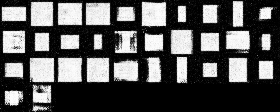
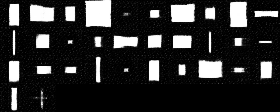
enabled batch training

diff --git a/InfoGAN-tf/run_infogan.py b/InfoGAN-tf/run_infogan.py
@@ -28,8 +28,11 @@ FLAGS = flags.FLAGS
 # Set up the input.
 rectangles = np.array(pickle.load(open(FLAGS.training_file, 'rb')), dtype=np.float32)
 print(rectangles.shape)
-images = rectangles[:FLAGS.batch_size].reshape((-1, 28, 28, 1))
-print(images.shape)
+images = rectangles.reshape((-1, 28, 28, 1))
+dataset = tf.data.Dataset.from_tensor_slices(images)
+dataset = dataset.shuffle(20000).repeat().batch(FLAGS.batch_size)
+batch_images = dataset.make_one_shot_iterator().get_next()
+print(images.shape, batch_images.shape)
 
 noise = tf.random_normal([FLAGS.batch_size, FLAGS.noise_dims], dtype=tf.float32)
 
@@ -50,14 +53,6 @@ def unconditional_generator(generator_inputs):
     
         return net    
 
-#    with tf.contrib.framework.arg_scope(
-#      [layers.fully_connected, layers.conv2d_transpose],
-#      activation_fn=tf.nn.relu, normalizer_fn=None,
-#      weights_regularizer=layers.l2_regularizer(2.5e-5)):
-#          net = tf.contrib.layers.fully_connected(generator_inputs, 28*28, activation_fn=tf.nn.sigmoid)
-#          net = tf.cast(net, tf.float32)
-#          return tf.reshape(net, shape=(-1,28,28,1))
-
 _leaky_relu = lambda x: tf.nn.leaky_relu(x, alpha=0.01)
 
 def unconditional_discriminator(discriminator_inputs, generator_inputs):
@@ -73,21 +68,13 @@ def unconditional_discriminator(discriminator_inputs, generator_inputs):
 
         return net
 
-#    with tf.contrib.framework.arg_scope(
-#      [layers.conv2d, layers.fully_connected],
-#      activation_fn=_leaky_relu, normalizer_fn=None,
-#      weights_regularizer=layers.l2_regularizer(2.5e-5), biases_regularizer=layers.l2_regularizer(2.5e-5)):
-#          net = tf.contrib.layers.fully_connected(discriminator_inputs, 1, activation_fn=tf.nn.sigmoid)
-#          net = tf.cast(net, tf.float32)
-#          return net
-
 # Build the generator and discriminator.
 gan_model = tfgan.gan_model(
     generator_fn=unconditional_generator,  
     discriminator_fn=unconditional_discriminator,  
-    real_data=images,
+    real_data=batch_images,#images,
     generator_inputs=noise)
-tfgan.eval.add_gan_model_image_summaries(gan_model, FLAGS.grid_size)
+#tfgan.eval.add_gan_model_image_summaries(gan_model, FLAGS.grid_size)
 
 # Build the GAN loss.
 gan_loss = tfgan.gan_loss(
@@ -103,13 +90,6 @@ train_ops = tfgan.gan_train_ops(
     discriminator_optimizer=tf.train.AdamOptimizer(FLAGS.dis_lr, 0.5))
 
 status_message = tf.string_join(['Starting train step: ', tf.as_string(tf.train.get_or_create_global_step())], name='status_message')
-
-# Run the train ops in the alternating training scheme.
-#tfgan.gan_train(
-#    train_ops,
-#    hooks=[tf.train.StopAtStepHook(num_steps=FLAGS.max_number_of_steps), tf.train.LoggingTensorHook([status_message], every_n_iter=1)],
-#    logdir=FLAGS.train_log_dir,
-#    get_hooks_fn = tfgan.get_joint_train_hooks())
 
 train_step_fn = tfgan.get_sequential_train_steps()
 
@@ -138,16 +118,3 @@ with tf.Session() as sess:
     sess.run(image_write_ops)
     print("done evaluating")
 
-#with tf.variable_scope('Generator', reuse=True):
-#    images = unconditional_generator(tf.random_normal([100, FLAGS.noise_dims]))
-#reshaped_images = tfgan.eval.image_reshaper(images, num_cols=10)
-#def float_image_to_uint8(image):
-#  image = (image * 128.0)
-#  return tf.cast(image, tf.uint8)
-#  
-#uint8_images = float_image_to_uint8(reshaped_images)
-#image_write_ops = tf.write_file("./images.png", tf.image.encode_png(uint8_images[0]))
-#tf.contrib.training.evaluate_repeatedly(FLAGS.train_log_dir, 
-#                                        hooks=[tf.contrib.training.SummaryAtEndHook(FLAGS.train_log_dir), tf.contrib.training.StopAfterNEvalsHook(1)], 
-#                                               eval_ops=image_write_ops, max_number_of_evaluations=1)
-#
